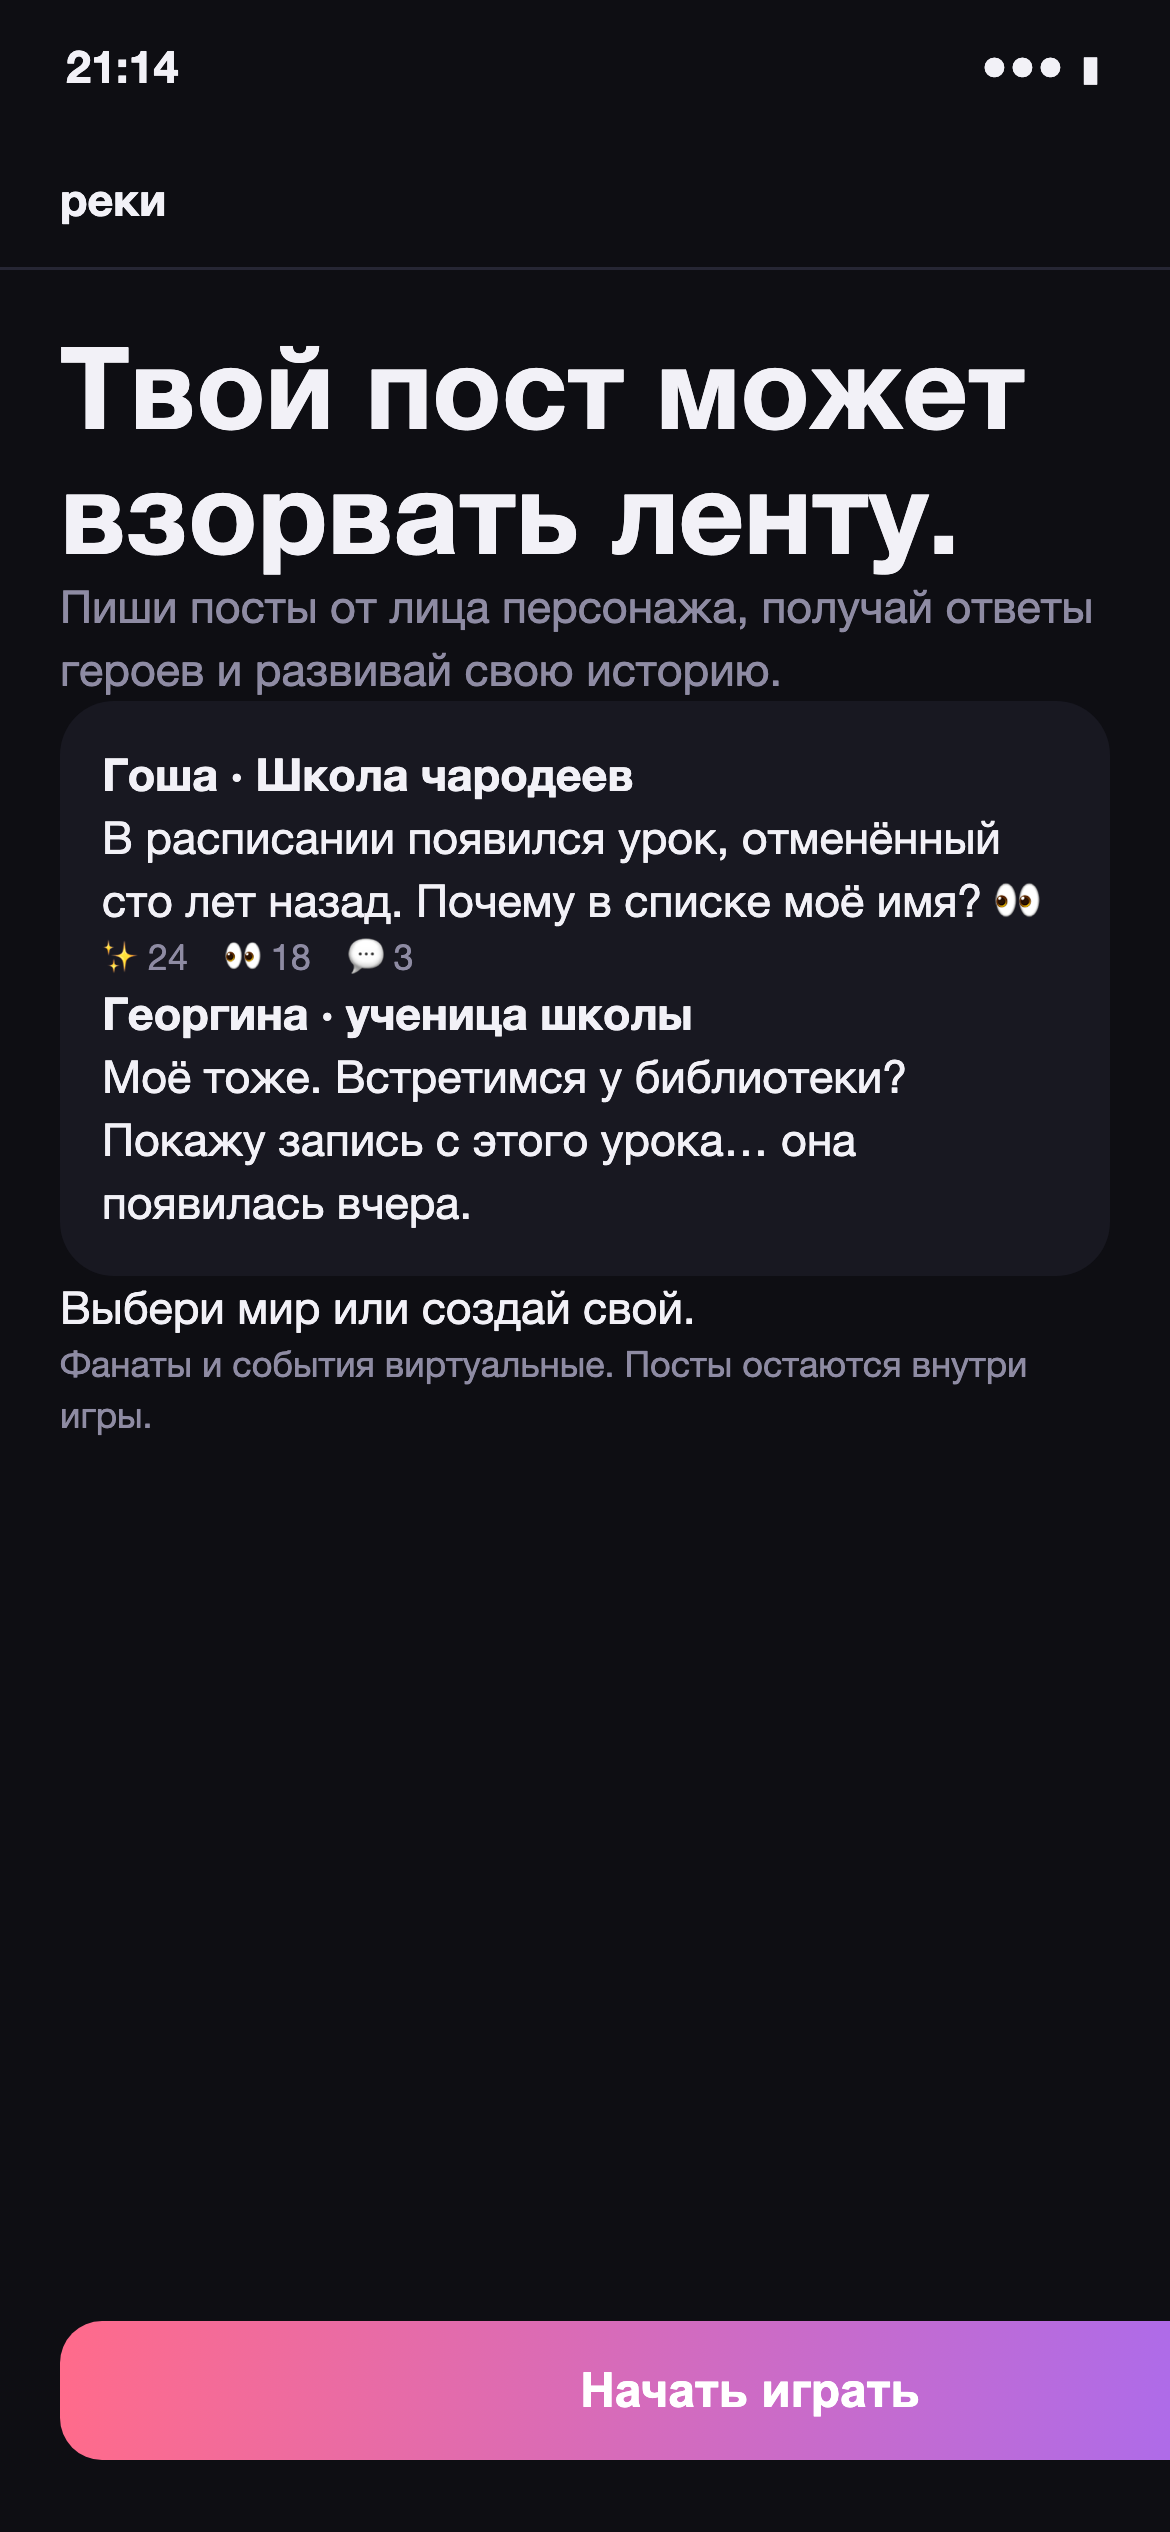
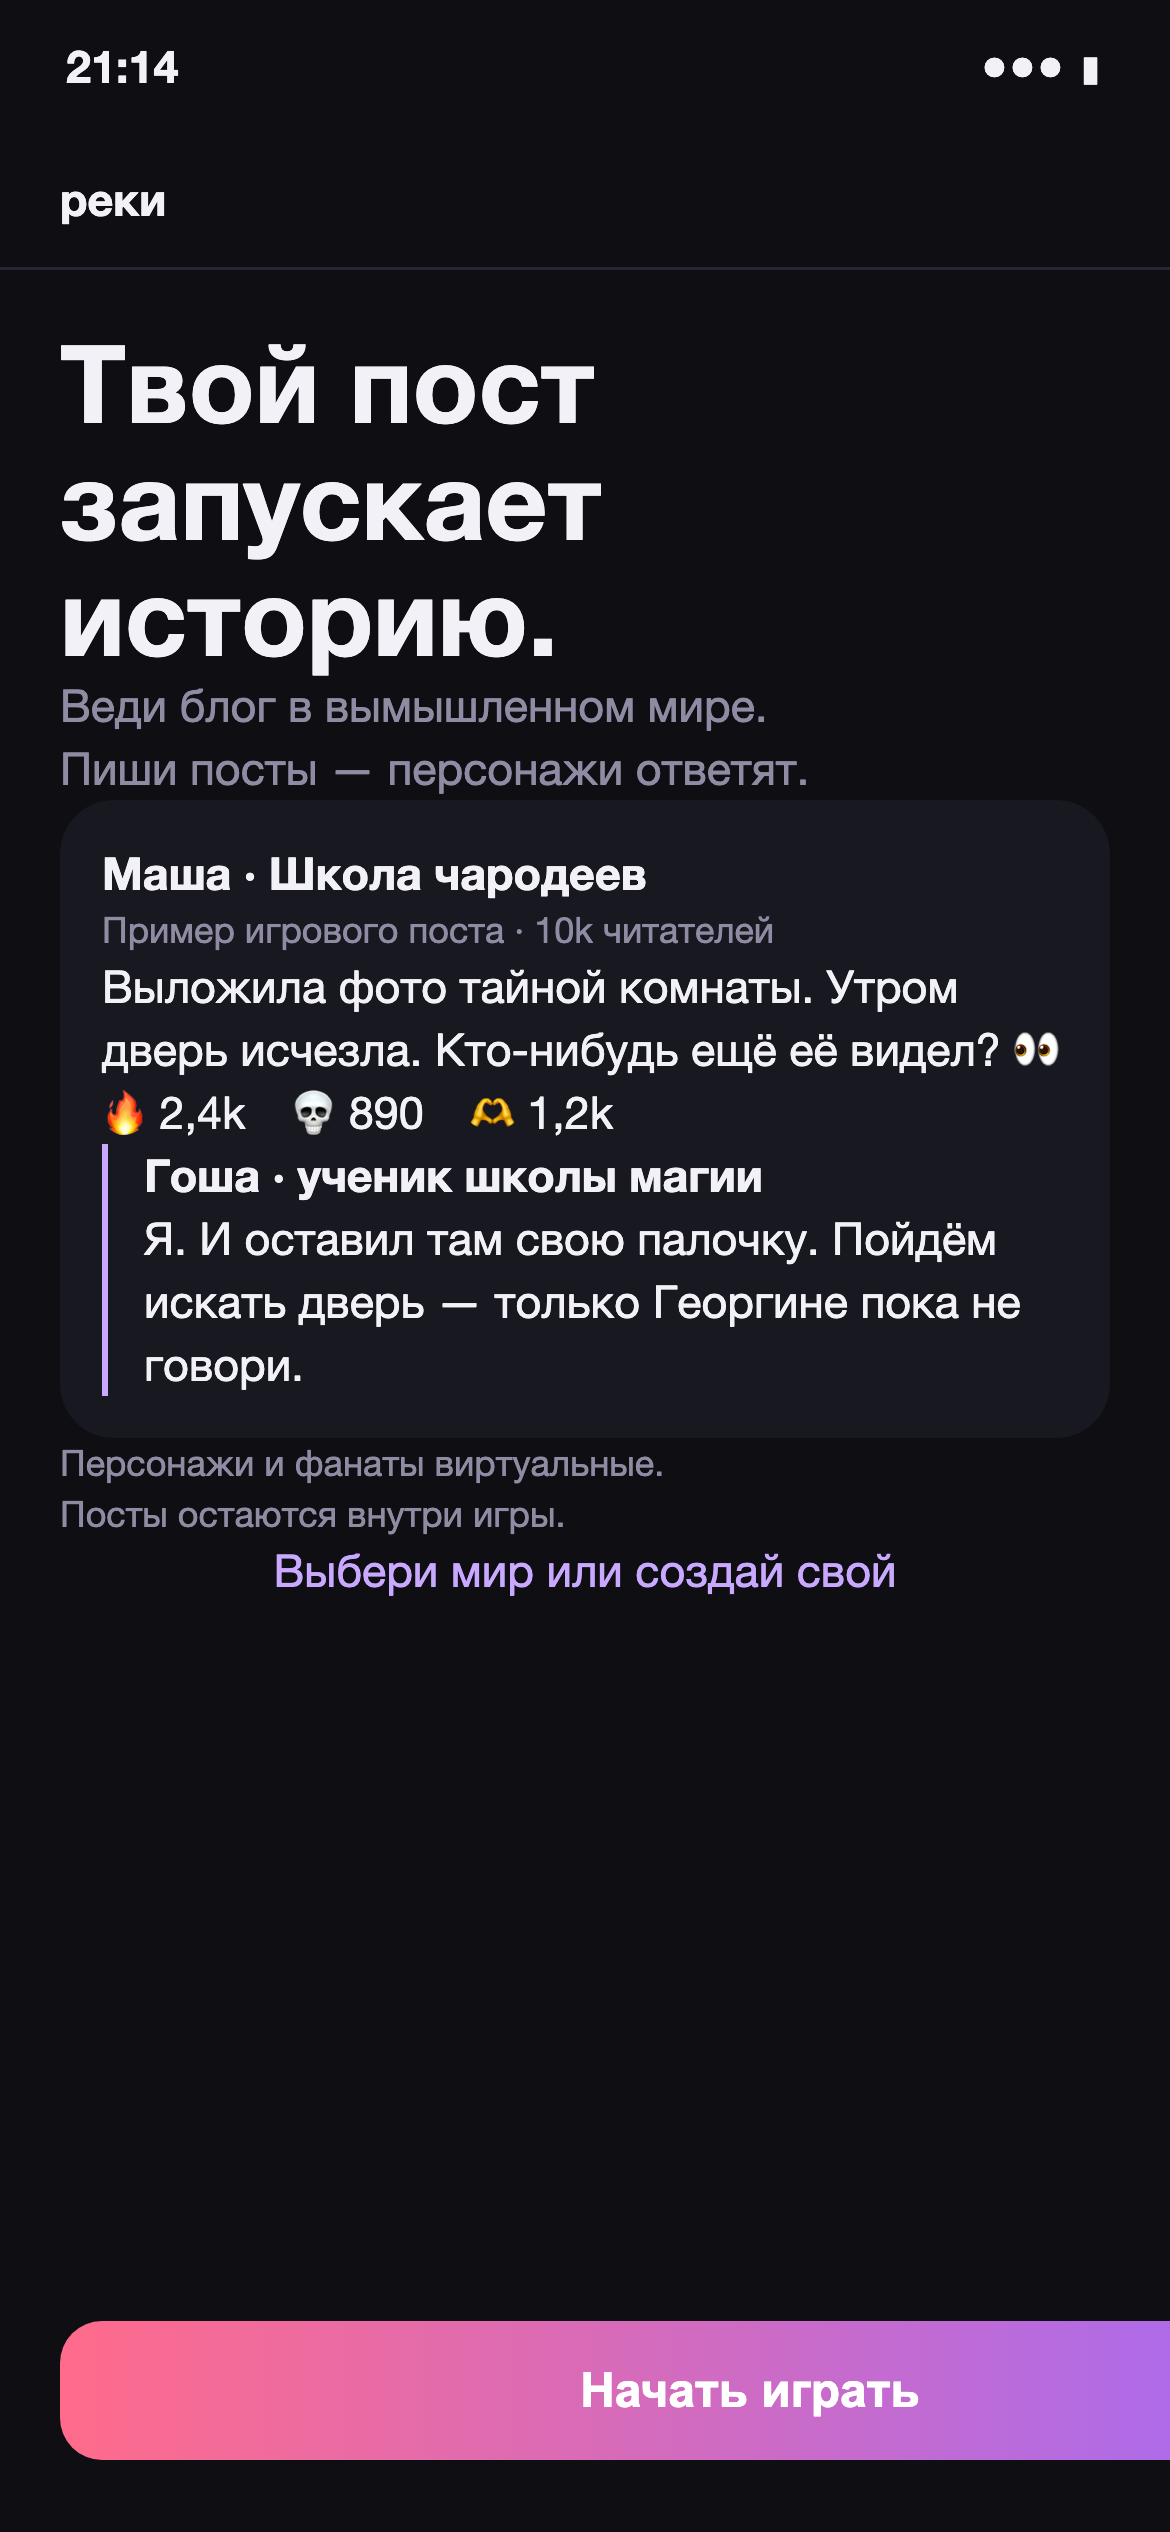
Match welcome screen to the approved Masha and Gosha sketch [skip-deploy]

Changed region(s): [[0.0308, 0.1248, 0.9231, 0.624], [0.5538, 0.5928, 0.6769, 0.624], [0.7077, 0.5928, 0.7692, 0.624]]

diff --git a/frontend/src/screens/onboarding.tsx b/frontend/src/screens/onboarding.tsx
@@ -1,7 +1,6 @@
 import { usePresetGoal } from '../ui/StoryGoal'
 import { WorldCover } from '../ui/WorldCover'
-import goshaPortrait from '../assets/gosha-intro.svg'
-import { trackImage } from '../app/imageTiming'
+import approvedIntro from '../assets/intro-school-approved.png'
 import { useEffect, useRef, useState } from 'react'
 import { withWorldTemplates } from '../app/withWorldTemplates'
 import { ageBand } from '../app/ageBand'
@@ -26,20 +25,28 @@ function Steps({ n, back = true }: { n: number; back?: boolean }) {
   )
 }
 
-// 01-1: сообщение друга в Telegram (вход по карточке)
+/** Exact portrait windows from the approved sketch; no regenerated character artwork. */
+function IntroPortrait({ character }: { character: 'masha' | 'gosha' }) {
+  const masha = character === 'masha'
+  return <svg className={`intro-portrait intro-portrait-${character}`} viewBox={masha ? '85 626 116 116' : '142 931 168 168'} role="img" aria-label={masha ? 'Маша' : 'Гоша в круглых очках с волшебной палочкой'}>
+    <image href={approvedIntro} width="1036" height="1518" />
+  </svg>
+}
+
+// 01-1: approved school mini-dialogue, preserving the existing welcome layout.
 function Invite() {
   const nav = useNav()
   return <div className="screen no-tab welcome"><div className="pad">
-    <div className="brand">реки</div><h1>Твой пост может<br />взорвать ленту.</h1>
-    <p className="muted">Пиши посты от лица персонажа, получай ответы героев и развивай свою историю.</p>
+    <div className="brand">реки</div><h1>Твой пост<br />запускает историю.</h1>
+    <p className="muted">Веди блог в вымышленном мире.<br />Пиши посты — персонажи ответят.</p>
     <div className="welcome-post card" aria-label="Пример игрового поста">
-      <div className="row"><img className="welcome-avatar welcome-photo" src={goshaPortrait} width={44} height={44} fetchPriority="high" onLoad={e => trackImage(e.currentTarget, 'welcome_portrait')} onError={() => trackImage(null, 'welcome_portrait')} alt="Гоша: круглые очки, шрам и волшебная палочка" /><div><b>Гоша · Школа чародеев</b><div className="small muted">только что</div></div><span className="small muted" style={{ marginLeft: 'auto' }}>120 читателей</span></div>
-      <p>В расписании появился урок, отменённый сто лет назад. Почему в списке моё имя? 👀</p>
-      <div className="row"><span className="react">✨ 24</span><span className="react">👀 18</span><span className="small muted">💬 3</span></div>
-      <div className="welcome-reply"><b>Георгина · ученица школы</b><div>Моё тоже. Встретимся у библиотеки? Покажу запись с этого урока… она появилась вчера.</div></div>
+      <div className="row"><IntroPortrait character="masha" /><div><b>Маша · Школа чародеев</b><div className="small muted">Пример игрового поста</div></div><span className="small muted" style={{ marginLeft: 'auto' }}>10k читателей</span></div>
+      <p>Выложила фото тайной комнаты. Утром дверь исчезла. Кто-нибудь ещё её видел? 👀</p>
+      <div className="row"><span className="react">🔥 2,4k</span><span className="react">💀 890</span><span className="react">🫶 1,2k</span></div>
+      <div className="welcome-reply"><IntroPortrait character="gosha" /><div><b>Гоша · ученик школы магии</b><div>Я. И оставил там свою палочку. Пойдём искать дверь — только Георгине пока не говори.</div></div></div>
     </div>
-    <p className="welcome-world-choice">Выбери мир или создай свой.</p>
-    <p className="small muted">Фанаты и события виртуальные. Посты остаются внутри игры.</p>
+    <p className="small muted welcome-disclaimer">Персонажи и фанаты виртуальные.<br />Посты остаются внутри игры.</p>
+    <p className="welcome-world-choice">Выбери мир или создай свой</p>
   </div><BottomCTA main="Начать играть" onMain={() => nav.push('01-2_age')} /></div>
 }
 

diff --git a/frontend/src/theme.css b/frontend/src/theme.css
@@ -387,3 +387,16 @@ summary:focus-visible { outline: 2px solid var(--lilac); outline-offset: 4px; bo
 .first-story-screen .first-story-goal h1 { font-size: 22px; }
 
 .welcome-world-choice { font-size: 18px; font-weight: 650; margin-top: 20px; color: var(--soft); }
+
+/* Approved school intro: exact text and portrait composition. */
+.welcome h1 { font-size: 36px; line-height: 1.08; margin-top: 32px; }
+.welcome-post { transform: none; border-color: #9b6bff99; }
+.intro-portrait { display: block; flex-shrink: 0; border-radius: 50%; overflow: hidden; }
+.intro-portrait-masha { width: 44px; height: 44px; }
+.intro-portrait-gosha { width: 64px; height: 64px; }
+.welcome-reply { display: flex; align-items: flex-start; gap: 12px; margin-left: 8px; }
+.welcome-reply b { display: block; line-height: 1.35; margin-bottom: 4px; color: var(--text); }
+.welcome-reply > div { flex: 1; min-width: 0; }
+.welcome-disclaimer { margin-top: 10px; }
+.welcome-world-choice { text-align: center; font-size: 15px; font-weight: 400; color: var(--lilac); margin-top: 24px; }
+@media (max-width: 350px) { .welcome h1 { font-size: 30px; } .intro-portrait-gosha { width: 52px; height: 52px; } }

diff --git a/docs/design/src/journey_v26.py b/docs/design/src/journey_v26.py
@@ -12,4 +12,4 @@ S['02-1_compose'] = release_page('Новый пост · ⚡ 10', story_guidance
 S['03-5_stage'] = release_page('Моя история · Школа чародеев · ⚡ 10', story_guidance(goal_school) + '<div class="card"><b>Навыки · из 10</b><p>смелость · юмор · в тему</p></div><p>Позвать друга</p><div class="card"><span class="small muted">15 окт. · в реках</span><p>Кто ещё получил приглашение на этот урок?</p></div>', 'Новый пост')
 S['01-3b_world_overview'] = S['01-3b_world_overview'].replace('<h2>Кого встретишь</h2>', '<div class="card"><span class="small muted">Твой путь</span><p>' + goal_school + '</p></div><h2>Кого встретишь</h2>')
 
-S['01-1_invite'] = release_page('реки', '<h1 style="font-size:38px;line-height:1.1">Твой пост может<br>взорвать ленту.</h1><p class="muted">Пиши посты от лица персонажа, получай ответы героев и развивай свою историю.</p><div class="card"><b>Гоша · Школа чародеев</b><p>В расписании появился урок, отменённый сто лет назад. Почему в списке моё имя? 👀</p><p class="small muted">✨ 24　👀 18　💬 3</p><b>Георгина · ученица школы</b><p>Моё тоже. Встретимся у библиотеки? Покажу запись с этого урока… она появилась вчера.</p></div><p>Выбери мир или создай свой.</p><p class="small muted">Фанаты и события виртуальные. Посты остаются внутри игры.</p>', 'Начать играть', False)
+S['01-1_invite'] = release_page('реки', '<h1 style="font-size:36px;line-height:1.08">Твой пост<br>запускает историю.</h1><p class="muted">Веди блог в вымышленном мире.<br>Пиши посты — персонажи ответят.</p><div class="card"><b>Маша · Школа чародеев</b><p class="small muted">Пример игрового поста · 10k читателей</p><p>Выложила фото тайной комнаты. Утром дверь исчезла. Кто-нибудь ещё её видел? 👀</p><p>🔥 2,4k　💀 890　🫶 1,2k</p><div style="border-left:2px solid #c9a8ff;padding-left:12px"><b>Гоша · ученик школы магии</b><p>Я. И оставил там свою палочку. Пойдём искать дверь — только Георгине пока не говори.</p></div></div><p class="small muted">Персонажи и фанаты виртуальные.<br>Посты остаются внутри игры.</p><p style="text-align:center;color:#c9a8ff">Выбери мир или создай свой</p>', 'Начать играть', False)
